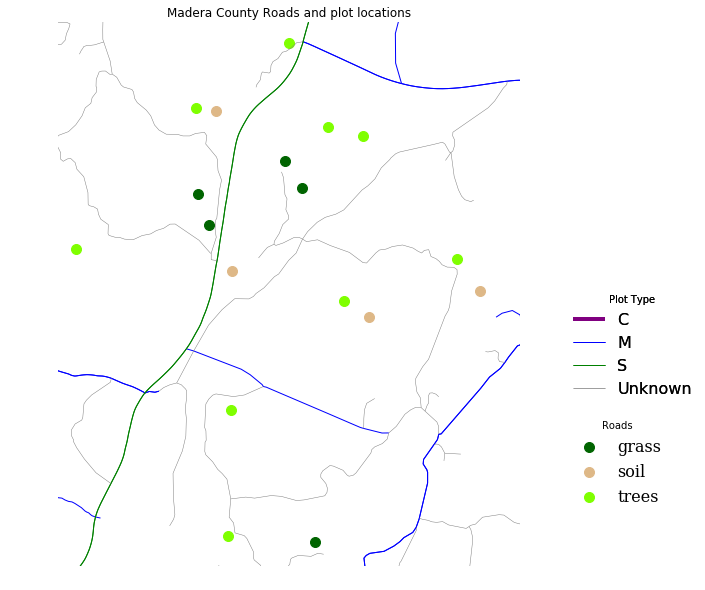
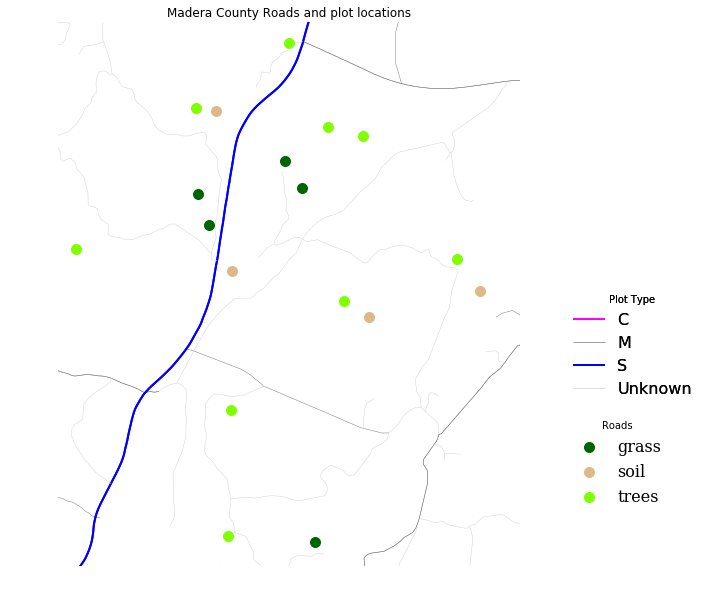
last rebuild of custom plot lesson

diff --git a/_posts/courses/earth-analytics-python/04-spatial-data/additional-lessons/2018-02-05-plot01-customize-python-matplotlib-plots.md b/_posts/courses/earth-analytics-python/04-spatial-data/additional-lessons/2018-02-05-plot01-customize-python-matplotlib-plots.md
@@ -163,7 +163,7 @@ sjer_roads.plot(column='RTTYP',
 
 
 
-    <matplotlib.axes._subplots.AxesSubplot at 0x119e35e10>
+    <matplotlib.axes._subplots.AxesSubplot at 0x122a5d748>
 
 
 
@@ -638,8 +638,7 @@ Then you can plot your data just like you did with the lines
 ```python
 pointsPalette = {'trees': 'chartreuse',
                  'grass': 'darkgreen', 'soil': 'burlywood'}
-roadPalette = {'M': 'grey', 'S': "blue", 'C': "magenta", '': "lightgrey"}
-lineWidths = {'M': .5, 'S': 2, 'C': 2, '': .5}
+lineWidths = {'M': .5, 'S': 2, 'C': 2, 'Unknown': .5}
 
 fig, ax = plt.subplots(figsize=(10, 10))
 ax.set_axis_off()
@@ -700,6 +699,18 @@ To clip your data you need to do the following
 sjer_aoi.total_bounds
 ```
 
+{:.output}
+{:.execute_result}
+
+
+
+    array([  254570.567     ,  4107303.07684455,   258867.40933092,
+            4112361.92026107])
+
+
+
+
+
 {:.input}
 ```python
 # The box function comes from shapely. Be sure to import it at the top of your notebook
@@ -713,25 +724,15 @@ sjer_roads_utm.plot(figsize=(8, 8),
                     column='RTTYP',
                     categorical=True,
                     legend=True)
+plt.show()
 ```
-
-{:.output}
-{:.execute_result}
-
-
-
-    <matplotlib.axes._subplots.AxesSubplot at 0x11c79e940>
-
-
-
-
 
 {:.output}
 {:.display_data}
 
 <figure>
 
-<img src = "{{ site.url }}//images/courses/earth-analytics-python/04-spatial-data/additional-lessons/2018-02-05-plot01-customize-python-matplotlib-plots_38_1.png" alt = "Geopandas plot of roads colored according to an attribute.">
+<img src = "{{ site.url }}//images/courses/earth-analytics-python/04-spatial-data/additional-lessons/2018-02-05-plot01-customize-python-matplotlib-plots_38_0.png" alt = "Geopandas plot of roads colored according to an attribute.">
 <figcaption>Geopandas plot of roads colored according to an attribute.</figcaption>
 
 </figure>
@@ -827,3 +828,17 @@ plt.rcParams['font.size'] = 22
 
 plt.rcParams['legend.fontsize'] = 'small'
 ```
+
+
+{:.output}
+{:.display_data}
+
+<figure>
+
+<img src = "{{ site.url }}//images/courses/earth-analytics-python/04-spatial-data/additional-lessons/2018-02-05-plot01-customize-python-matplotlib-plots_46_0.png" alt = "Geopandas plot of roads colored according to an attribute.">
+<figcaption>Geopandas plot of roads colored according to an attribute.</figcaption>
+
+</figure>
+
+
+
